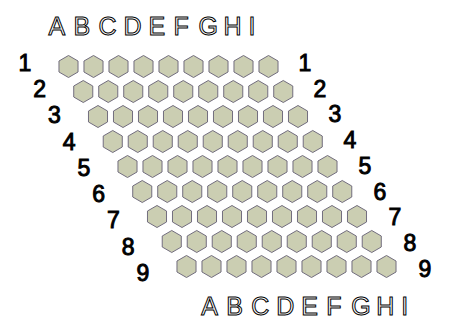
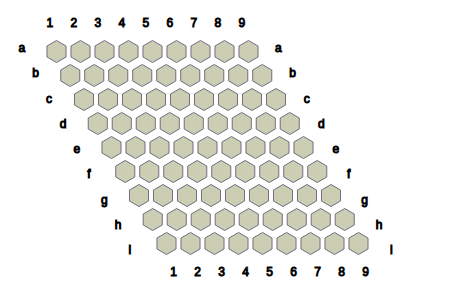
nexViz and documentation updated

diff --git a/html/js/script.js b/html/js/script.js
@@ -18,7 +18,7 @@ var colors = [
 var TILE_ON=-1;                  // tile that mouse is hovering over
 
 var SIDE_LENGTH = 11;       // correction factors to adjust tile alignment
-const SPACE = 25;
+const SPACE = 24;
 var moveBuffer = [];
 var move = [];
 var index=0;                // position in moveBuffer
@@ -61,7 +61,7 @@ Cell.prototype.placeStone = function(player) {
     board.ascii();
 }
 
-// ~~~~~~~~~~~~~~~~ Board ~~~~~~~~~~~~~~~~~~~~~~~~~~~~~~~~~~~~~~~~~~~~~~~~~~~~~~~~~~~~
+// ~~~~~~~~~~~~~~~~ Board ~~~~~~~~~~~~~~~~~~~~~~~~~~~~~~~~~~~~~~~~~
 
 function Board() {
     this.state = new Array(SIZE);
@@ -71,25 +71,25 @@ function Board() {
 
 Board.prototype.init = function() {
 
-    var padding = 150;
-    for (var j=0; j<SIZE; ++j) this.text.addChild(new Text(String.fromCharCode(j+65)).attr({
-        x: j*SPACE + padding - 20,
-        y: SPACE,
+    var padding = 100;
+
+    for (var j=0; j<SIZE; ++j) this.text.addChild(new Text(String.fromCharCode(j+49)).attr({
+        x: j*SPACE + padding - 10,
+        y: SPACE + 15,
         fontFamily: 'Arial, sans-serif',
-        fontSize: '25',
+        fontSize: '12',
         textFillColor: 'white',
         textStrokeColor: 'black',
         textStrokeWidth: 1
     }));
-
     for (var i=0; i<SIZE; ++i) {
         this.state[i] = new Array(SIZE);
         // print leftmost digits
-        this.text.addChild(new Text(i+1).attr({
-            x: -2*SPACE+padding+i*-10.25,
-            y: i*SPACE*1.05+SPACE*2.5,
+        this.text.addChild(new Text(String.fromCharCode(i+97)).attr({
+            x: -2*SPACE+padding+i*-10.25+10,
+            y: i*SPACE*1.05+SPACE*2.5 + 4,
             fontFamily: 'Arial, sans-serif',
-            fontSize: '23',
+            fontSize: '12',
             textFillColor: 'black',
             textStrokeColor: 'black',
             textStrokeWidth: 1
@@ -98,22 +98,22 @@ Board.prototype.init = function() {
             this.state[i][j] = new Cell(j*SPACE+padding+i*-10.25, i*SPACE+SPACE*3, SIZE*i+j);
         padding+=SPACE;
 
-        this.text.addChild(new Text(i+1).attr({
-            x: SIZE*SPACE+padding*0.6+SPACE*2,
-            y: i*SPACE*1.03+SPACE*2.5,
+        this.text.addChild(new Text(String.fromCharCode(i+97)).attr({
+            x: SIZE*SPACE+padding*0.6+SPACE*2 - 20,
+            y: i*SPACE*1.05+SPACE*2.5 + 4,
             fontFamily: 'Arial, sans-serif',
-            fontSize: '23',
+            fontSize: '12',
             textFillColor: 'black',
             textStrokeColor: 'black',
             textStrokeWidth: 1
         }));
     }
 
-    for (var j=0; j<SIZE; ++j) this.text.addChild(new Text(String.fromCharCode(j+65)).attr({
-        x: j*SPACE+padding+SIZE*-10.25,
-        y:SIZE*SPACE+SPACE*3.2,
+    for (var j=0; j<SIZE; ++j) this.text.addChild(new Text(String.fromCharCode(j+49)).attr({
+        x: j*SPACE+padding+SIZE*-10.25 - 10,
+        y:SIZE*SPACE+SPACE*3.2 - 5,
         fontFamily: 'Arial, sans-serif',
-        fontSize: '25',
+        fontSize: '12',
         textFillColor: 'white',
         textStrokeColor: 'black',
         textStrokeWidth: 1

diff --git a/html/index.html b/html/index.html
@@ -16,7 +16,7 @@
 <body>
     <div class="container">
             <div class="game-header">
-              <h1 class="game-title">Nex</h1>
+              <h1 class="game-title">NexViz</h1>
             </div>
 
             <nav class="row">

diff --git a/README.md b/README.md
@@ -23,29 +23,23 @@ Players have two kinds of moves to choose from:
 	
 1. place a stone of their colour and a neutral stone into 
 	two distinct empty cells. For example,
-	   
-```
-		   1  2  3				   1  2  3
-		a\  .  .  .  \a				a\  .  .  ?  \a
-		 b\  .  .  .  \b			 b\  .  .  B  \b
-		  c\  .  .  .  \c			  c\  .  .  .  \c
-		       1  2  3				       1  2  3
-```
 
-Black places a **B** on _b3_ and a **?** on _a3_.
+
+![3x3blank](./images/3x3blank.png)
+
+![3x3genmove](./images/3x3genmove.png)
+
+Black places a **B** on _a1_ and a **?** on _c2_.
 
 2. convert two neutral stones on the board into the player's 
 	colour and convert one of their coloured stones into a 
 	neutral stone. For example,
 
-```
-		   1  2  3				   1  2  3
-		a\  ?  .  ?  \a				a\  W  .  W  \a
-		 b\  B  W  B  \b			 b\  B  ?  B  \b
-		  c\  .  ?  .  \c			  c\  .  ?  .  \c
-		       1  2  3				       1  2  3
-```
-White converts **?** at _a1_ and _a3_ to **W** and **W** at _b2_ to 
+![3x3transform1](./images/3x3transform1.png)
+
+![3x3transform2](./images/3x3transform2.png)
+
+Black converts **?** at _a2_ and _c2_ to **B** and **B** at _a1_ to 
 **?**.
 			   
 The objective of the game is to form a connection between
@@ -53,16 +47,10 @@ opposite sides. Black aims to connect the top and bottom
 edges with **B** while white aims to connect the left and
 right edges with **W**.
 
-```
-					   1  2  3			
-					a\  ?  .  ?  \a		
-					 b\  B  W  B  \b	
-					  c\  .  ?  .  \c	
-					       1  2  3	
-```
+![3x3blackwin](./images/3x3blackwin.png)
 
 Black forms a connection from the top edge to the bottom 
-edge with the help of the stones on _a2_, _b2_ and _c1_.
+edge with the help of the stones on _a2_, _b2_ and _c2_.
 
 The game terminates when either player wins or no legal
 moves exist.
@@ -74,7 +62,7 @@ The server and the players are expected to follow the
 protocol given below; following are the different input
 commands a player may receive from the server:
 
-1. "r<R>-c<C>#"
+1. "rR-cC#"
 
 	* Server sends the game settings (format may be extended 
 	later). R denotes the number of rows of the board and
@@ -137,18 +125,6 @@ Nex Problems
 ------------------------------------------------------------
 1. Describe the game tree.
 2. Where should the neutral stones be placed?
-3. Solve the 1s2n problem.
-
-					   1  2  3  4
-					a\  .  .  .  .  \a
-					 b\  .  .  .  .  \b
-					  c\  .  *  .  .  \c
-					   d\  ?  ?  .  .  \d
-						1  2  3  4
-
-	What should player * do? What should the opponent 
-	of * do if its their turn to play?
-
-4. Find strong and weak openings.
-5. How should the game states be evaluated?
-6. Is Nex a first player win game?
+3. Find strong and weak openings.
+4. How should the game states be evaluated?
+5. Is Nex a first player win game?
